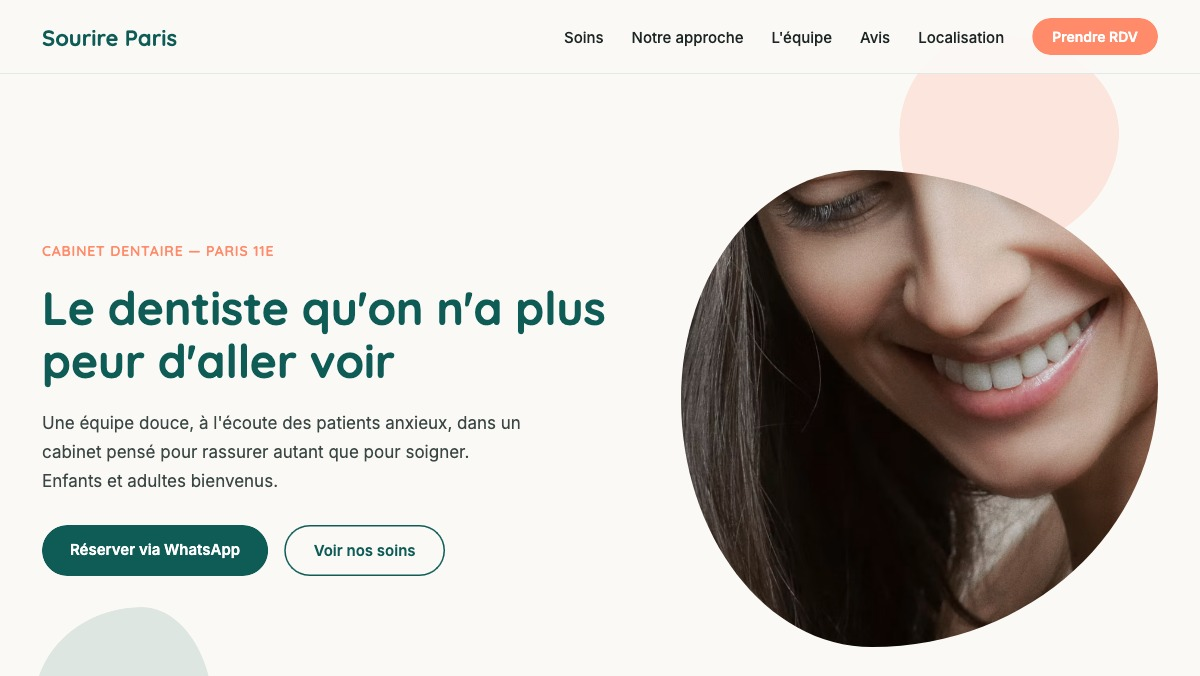
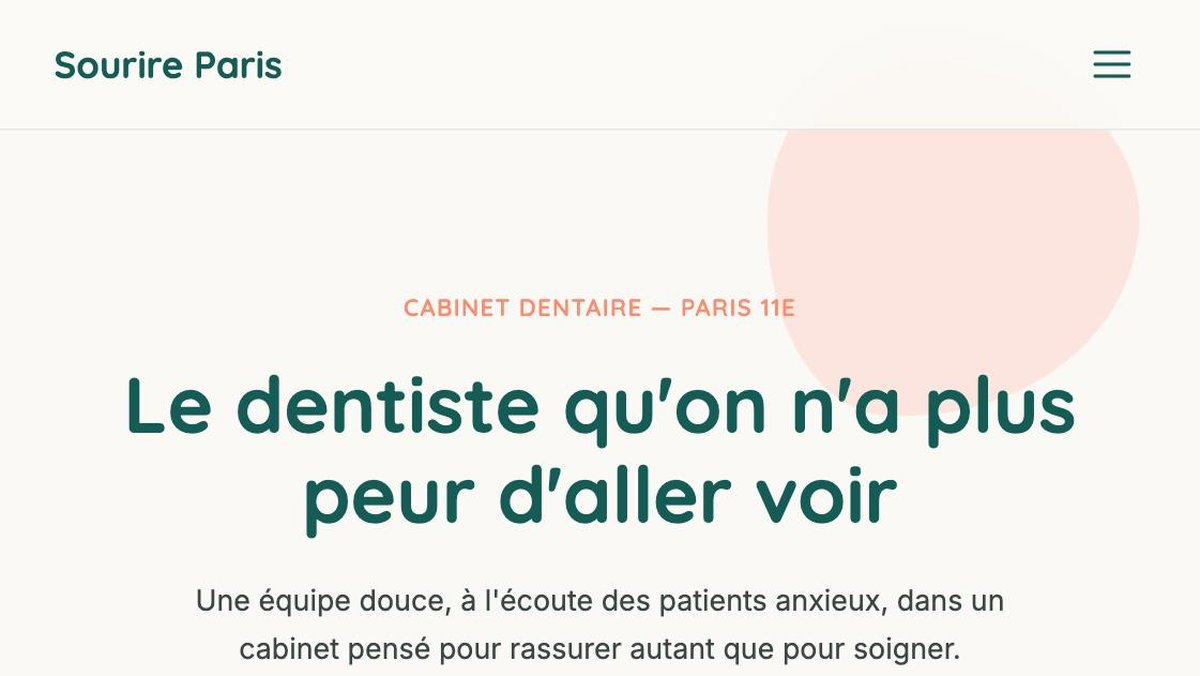
Actualizar miniaturas de Volteo y Sourire, quitar apertura en pestaña nueva de proyectos

diff --git a/proyectos.html b/proyectos.html
@@ -132,8 +132,6 @@
         <a
             href="https://landrytalbotpro.github.io/volteo/"
             class="project-image"
-            target="_blank"
-            rel="noopener noreferrer"
         >
 
             <img
@@ -193,8 +191,6 @@
             <a
                 href="https://landrytalbotpro.github.io/Sourire-paris/"
                 class="project-image"
-                target="_blank"
-                rel="noopener noreferrer"
             >
 
                 <img
@@ -247,8 +243,6 @@
             <a
                 href="https://landrytalbotpro.github.io/Elan-Studio/"
                 class="project-image"
-                target="_blank"
-                rel="noopener noreferrer"
             >
 
                 <img
@@ -310,8 +304,6 @@
             <a
                 href="https://landrytalbotpro.github.io/corte-co/"
                 class="project-image"
-                target="_blank"
-                rel="noopener noreferrer"
             >
 
                 <img
@@ -364,8 +356,6 @@
             <a
                 href="https://landrytalbotpro.github.io/corte-co-fr/"
                 class="project-image"
-                target="_blank"
-                rel="noopener noreferrer"
             >
 
                 <img
@@ -427,8 +417,6 @@
             <a
                 href="https://landrytalbotpro.github.io/braza-restaurante/"
                 class="project-image"
-                target="_blank"
-                rel="noopener noreferrer"
             >
 
                 <img
@@ -481,8 +469,6 @@
             <a
                 href="https://landrytalbotpro.github.io/forge-gym/"
                 class="project-image"
-                target="_blank"
-                rel="noopener noreferrer"
             >
 
                 <img
@@ -539,8 +525,6 @@
         <a
             href="https://landrytalbotpro.github.io/vantia-ia/"
             class="project-image"
-            target="_blank"
-            rel="noopener noreferrer"
         >
 
             <img

diff --git a/index.html b/index.html
@@ -316,8 +316,6 @@
         <a
             href="https://landrytalbotpro.github.io/volteo/"
             class="project-image"
-            target="_blank"
-            rel="noopener noreferrer"
         >
 
             <img
@@ -377,8 +375,6 @@
             <a
                 href="https://landrytalbotpro.github.io/Sourire-paris/"
                 class="project-image"
-                target="_blank"
-                rel="noopener noreferrer"
             >
 
                 <img
@@ -431,8 +427,6 @@
             <a
                 href="https://landrytalbotpro.github.io/Elan-Studio/"
                 class="project-image"
-                target="_blank"
-                rel="noopener noreferrer"
             >
 
                 <img
